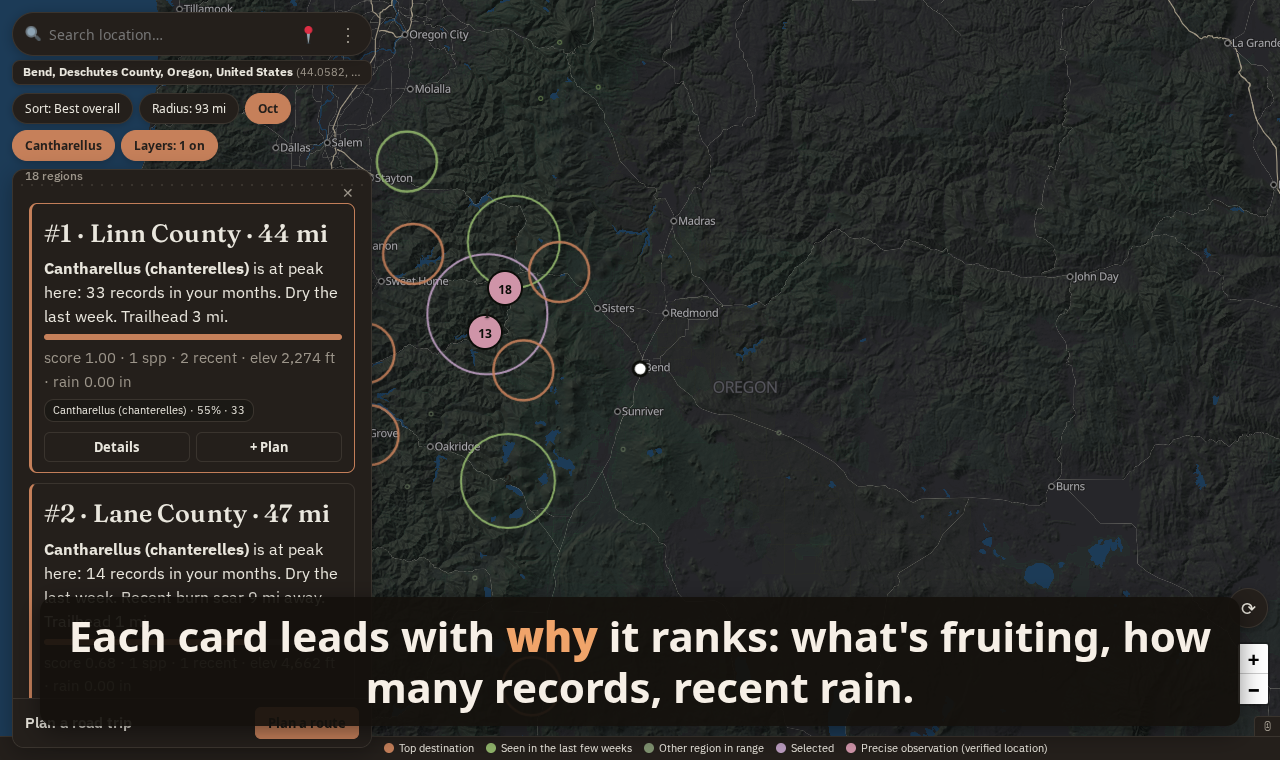
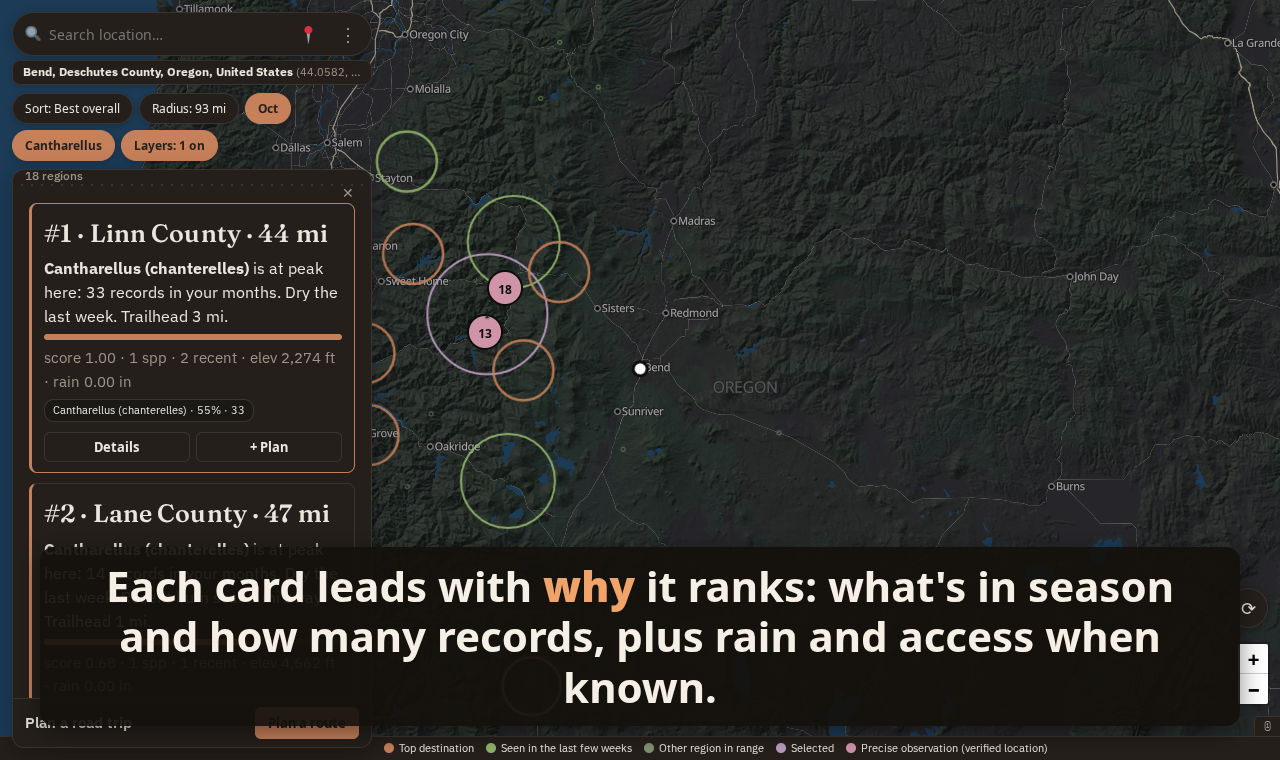
docs(tutorials): conditional why-line wording; wait for the new home
Review fixes:
- The card's why line always has the top genus, its season phrase and
  record count, but rain, fire and a trailhead only appear when known /
  close (why.ts); say so instead of listing them as guaranteed.
- After choosing the home (picked suggestion or the free-text
  fallback), wait for the header to name it before accepting .rank
  cards - the old location's cards match until the list re-renders.
Re-recorded getting-started and best-spot.

Changed region(s): [[0.0312, 0.6961, 0.9688, 0.9382]]

diff --git a/docs/tutorials/record.py b/docs/tutorials/record.py
@@ -181,6 +181,16 @@ class Tutorial:
         time.sleep(0.8)
 
 
+def wait_for_home(page: Page, name: str) -> None:
+    """Block until the header names the new home. The ranked list re-renders asynchronously
+    after a location change, so the old location's cards still match `.rank` meanwhile."""
+    page.wait_for_function(
+        "(name) => (document.getElementById('home-name')?.textContent || '').includes(name)",
+        arg=name,
+        timeout=60_000,
+    )
+
+
 def wait_for_results(page: Page) -> None:
     page.locator("#panel .rank").first.wait_for(timeout=60_000)
     time.sleep(2.5)  # let the map settle + markers paint
@@ -192,6 +202,7 @@ def set_home(tut: Tutorial, query: str) -> None:
     suggestion = page.locator("#loc-suggestions li").first
     suggestion.wait_for(timeout=15_000)
     tut.click(suggestion, pause=1.0)
+    wait_for_home(page, query.split(",")[0])
     wait_for_results(page)
 
 
@@ -229,7 +240,8 @@ def getting_started(tut: Tutorial) -> None:
     card = page.locator("#panel .rank").first
     tut.point(card.locator(".why"))
     tut.caption(
-        "Each card leads with <b>why</b> it ranks: what's fruiting, how many records, recent rain.",
+        "Each card leads with <b>why</b> it ranks: what's in season and how many records, "
+        "plus rain and access when known.",
         shot="card",
         hold=3.2,
     )
@@ -727,6 +739,7 @@ def set_home_quietly(page: Page) -> None:
             continue  # the geocoder can be slow / rate-limited; retype to re-query
     else:
         box.press("Enter")  # free-text submit: the server geocodes it instead
+    wait_for_home(page, "Bend")
     wait_for_results(page)
 
 

diff --git a/docs/tutorials/README.md b/docs/tutorials/README.md
@@ -47,8 +47,9 @@ remove one with its ✕. Your picks are remembered on this device.
 ![Filtering to chanterelles](img/getting-started-04-genera.png)
 
 **5. Read a destination card.** Each card leads with a plain-language line explaining why it
-ranks: which genus is active, whether it's at peak, building, or past peak, how many records
-fall in your months, recent rain, and distance to the nearest trailhead. Below that are the
+ranks: the top genus, where it is in its season (at peak, building, past peak), and how many
+records fall in your months. When they apply, it adds recent rain, a nearby active fire or burn
+scar, and a trailhead within about 3 mi (with a free camp, if one is close). Below that are the
 score bar, species count, recent sightings, elevation and rainfall, then the top genera.
 
 ![A destination card](img/getting-started-05-card.png)
@@ -79,8 +80,9 @@ the actual iNaturalist finds behind the ranking.
 **1. Leave the defaults.** With **All genera** and **Sort: Best overall**, the #1 card has the
 strongest overall score for your chosen months. The score blends how much of each genus's
 season falls in those months, how many records and how many genera, how recent they are, and
-adjustments for active fire and trail/camp access. The card's first line says why: what's
-peaking there, how many records, recent rain, and the nearest trailhead.
+adjustments for active fire and trail/camp access. The card's first line says why: the top
+genus, where it is in its season and its record count, plus recent rain, fire and a close
+trailhead when those apply.
 
 ![The top-ranked destination](img/best-spot-01-ranked.png)
 
